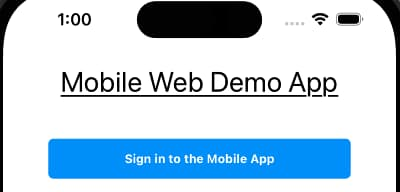
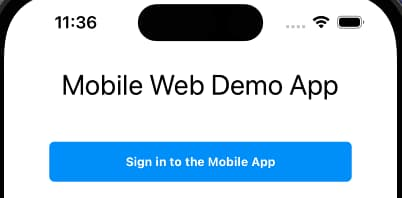
Updates

diff --git a/ios-app/Source/Views/MainView.swift b/ios-app/Source/Views/MainView.swift
@@ -33,7 +33,6 @@ struct MainView: View {
             
             Text("Mobile Web Demo App")
                 .font(.title)
-                .underline()
                 .padding(.bottom)
             
             if self.model.error != nil {

diff --git a/ios-app/Source/Utilities/MenuButtonStyle.swift b/ios-app/Source/Utilities/MenuButtonStyle.swift
@@ -41,7 +41,7 @@ struct MenuButtonStyle: ButtonStyle {
             .font(self.buttonFont)
             .scaleEffect(configuration.isPressed ? 0.9 : 1.0)
             .cornerRadius(5)
-            .padding()
+            .padding(10)
     }
 }
 
